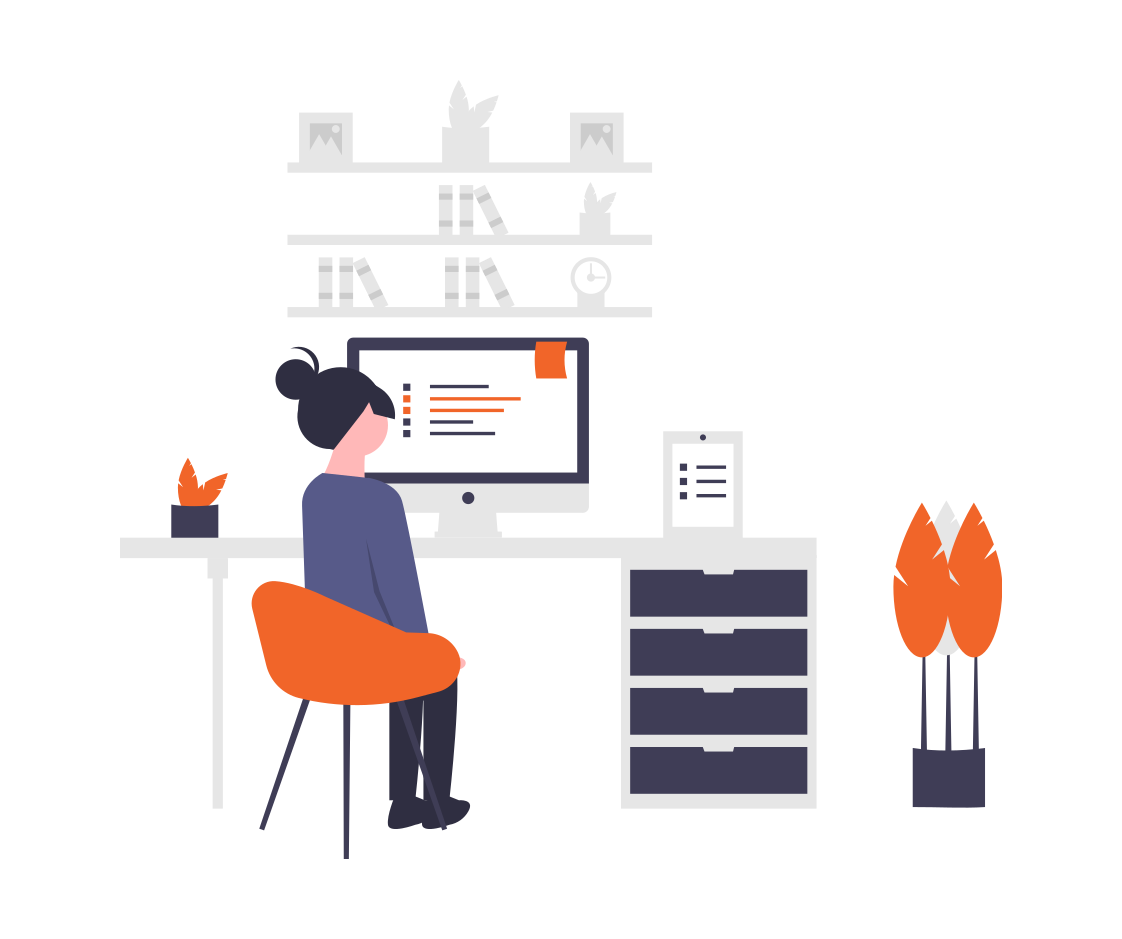
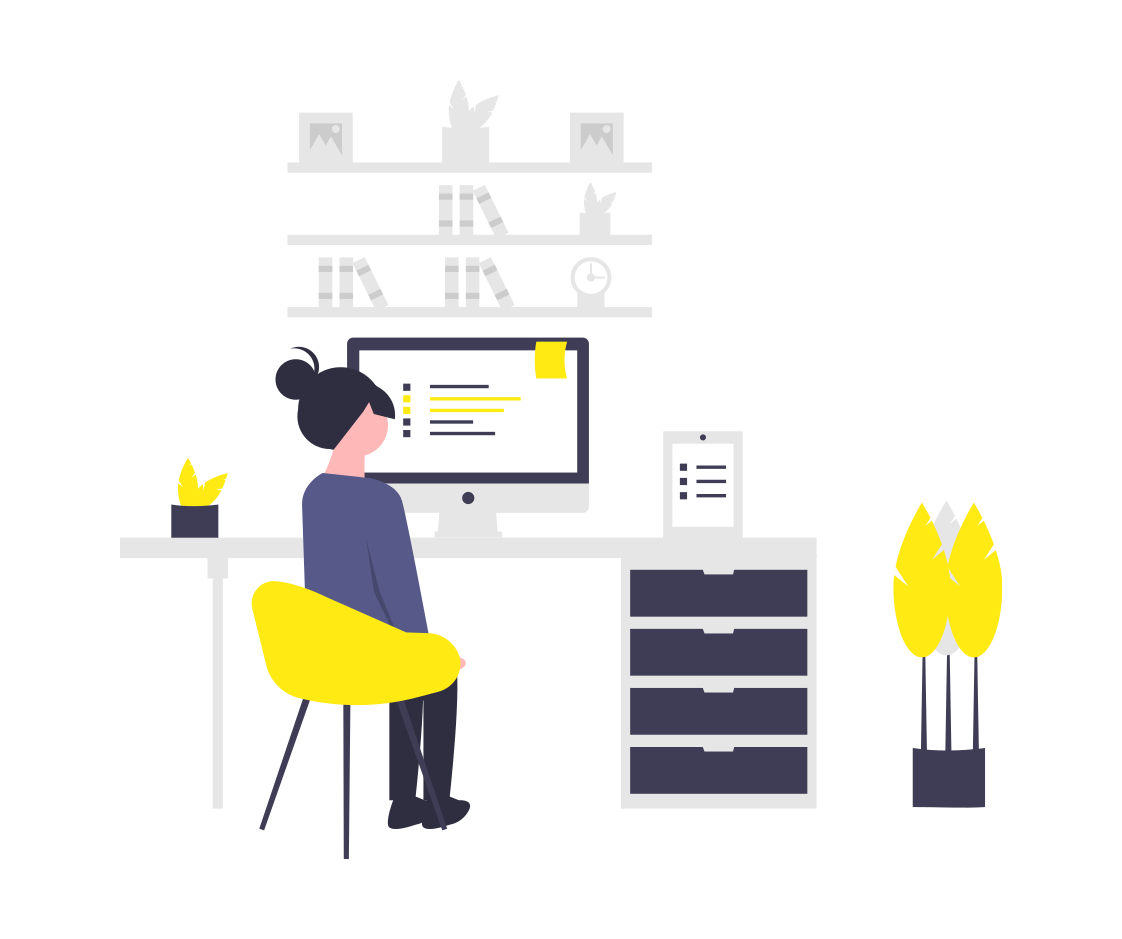
Color and font change, some responsiveness

diff --git a/style.css b/style.css
@@ -1,13 +1,12 @@
-@import url("https://fonts.googleapis.com/css?family=Aleo");
+@import url("https://fonts.googleapis.com/css?family=Spectral");
 
 :root {
   --main-bg-color: #FFFFFF;
   --main-text-color: #333;
   --heading-color: #333;
-  --link-color: #930077;
-  --color1: #930077;
-  --color2: #e61c5d;
-  --color3: #ffbd39;
+  --link-color: #e61c5d;
+  --main-color: #e61c5d;
+  --accent-color: #ffea15;
 }
 
 html,
@@ -15,13 +14,13 @@ body {
   min-height: 100%;
 }
 body {
-  font-family: "Aleo", serif;
+  font-family: "Spectral", serif;
   margin: 0 auto;
   padding: 20px 40px;
   max-width: 800px;
   background: var(--main-bg-color);
   color: var(--main-text-color);
-  font-size: 1.1rem;
+  font-size: 18px;
   line-height: 1.5rem;
 }
 
@@ -38,62 +37,43 @@ img {
 h1 {
   font-weight: bold;
   color: var(--heading-color);
-  font-size: 60px;
-  line-height: 60px;
+  font-size: 8vw;
+  line-height: 8vw;
   text-align: center;
 }
 
 .heart {
   display: inline-block;
-  background: var(--color2);
-  /*background: linear-gradient(90deg, 
-            var(--color3) 0%, 
-            var(--color3) 6%, 
-            var(--color2) 6%, 
-            var(--color2) 55%, 
-            var(--color1) 55%, 
-            var(--color1) 100%);*/
-  height: 36px;
-  width: 36px;
+  background: var(--main-color);
+  height: 4vw;
+  width: 4vw;
   transform: rotate(45deg);
-  margin: 0 20px;
+  margin: 0 2vw;
 }
 
 .heart:before,
 .heart:after {
   content: "";
-  background: var(--color2);
+  background: var(--main-color);
   border-radius: 50%;
-  height: 36px;
+  height: 4vw;
   position: absolute;
-  width: 36px;
-  top: -18px;
+  width: 4vw;
+  top: -2vw;
   left: 0;
 }
 
 .heart:before {
-  /* background: linear-gradient(90deg, 
-  var(--color3) 0%, 
-  var(--color3) 55%, 
-  var(--color2) 55%, 
-  var(--color2) 100%); */
   top: 0;
-  left: -18px;
-}
-
-.heart:after {
-  /* background: linear-gradient(90deg, 
-            var(--color3) 0%, 
-            var(--color3) 6%, 
-            var(--color2) 6%, 
-            var(--color2) 55%, 
-            var(--color1) 55%, 
-            var(--color1) 100%); */
+  left: -2vw;
 }
 
 a {
   color: var(--link-color);
-  padding: 5px;
+  padding: 2px 5px;
+  position: relative;
+  text-decoration-color: var(--accent-color);
+  text-decoration-thickness: 3px;
 }
 
 a:visited {
@@ -104,21 +84,13 @@ a:hover,
 a:visited:hover,
 a:focus,
 a:active {
-  background: linear-gradient(315deg, 
-            var(--color1) 0%, 
-            var(--color1) 33%, 
-            var(--color2) 33%, 
-            var(--color2) 66%, 
-            var(--color3) 66%, 
-            var(--color3) 100%);
-  -webkit-background-clip: text;
-  -webkit-text-fill-color: transparent;
+  background-color: var(--accent-color);
+  border-radius: 8px;
   text-decoration: none;
-  font-weight: bold;
 }
 
 small {
   font-size: 0.8rem;
-  line-height: 0.8rem;
+  line-height: 1rem;
   color: #333;
 }

diff --git a/index.html b/index.html
@@ -18,8 +18,13 @@
     <main>
       <h1>Ramapriya <span class="heart"></span> the web</h1>
       <p>
-        I’m a Frontend/UI Engineer who loves all things tech. I have too many
+        Hi! I'm Ramapriya, a Frontend/UI Engineer who loves all things tech. I have too many
         interests and fall down metaphorical rabbit holes all the time.
+      </p>
+      <p>
+        This site is not a typical blog. It's the (future) home of my notes as I remaster web development and explore anything else that
+        catches my interest. You're welcome to follow along, but keep in mind, this is an eternal work in progress and things may
+        shift day to day.
       </p>
       <img
         src="/undraw_remotely_2j6y.png"
